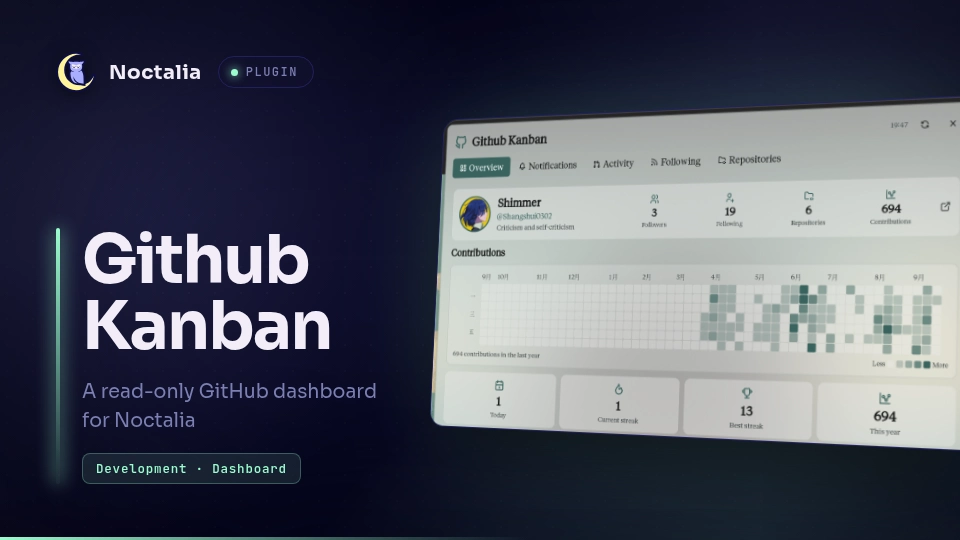
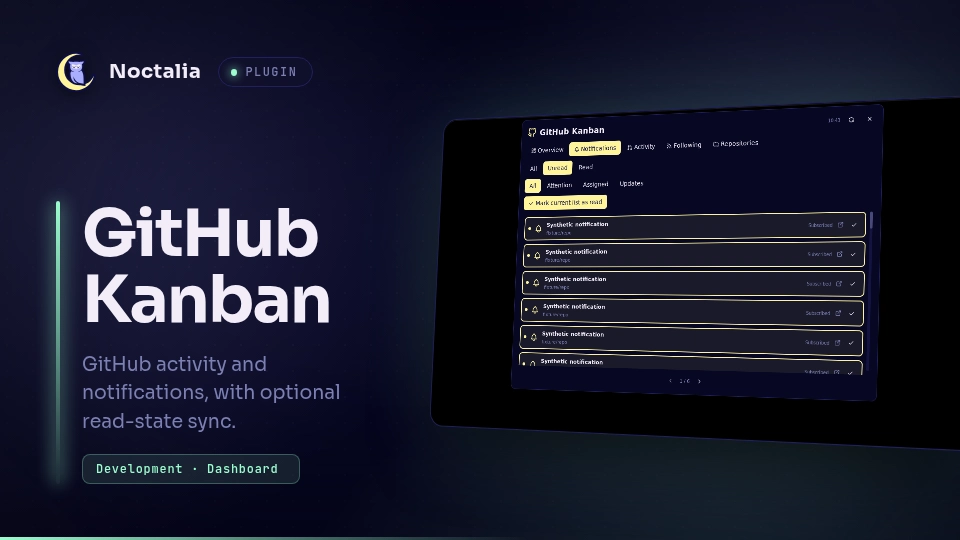
perf(github-kanban): accelerate refresh and paginate notification cards

diff --git a/github-kanban/README.md b/github-kanban/README.md
@@ -121,9 +121,10 @@ noctalia msg plugin shangshui0302/github-kanban:sync all refresh
 
 ## Notes
 
-- The `sync` service makes read-only GitHub API network requests through `gh api`, using the authentication already configured in `gh`. The notification service also uses `gh api`; in Synced mode only, explicit **Mark as read** / **Mark current list as read** actions, or opening a notification with **Mark read when opening a notification** enabled, send `PATCH /notifications/threads/{id}` to GitHub. The batch action only includes unread notifications in the current filtered list. The badge updates optimistically while a write is pending. Very large selections are queued in bounded batches instead of blocking the action callback. Failed writes restore unread state and can be retried; older in-flight responses cannot overwrite a local read action. An updated thread becomes unread again. Before writing, the service checks the current account and thread version. Pending actions are disabled. Legacy mode remains read-only and refreshes with the dashboard. The plugin does not read, store, or display an access token. Individual sources may fail independently; cached sections can remain visible while errors are reported.
-- Notification requests follow pagination to include the complete read history range (30 days by default) and all unread notifications. Unread items remain visible and counted even when older than the history range. Synced mode refreshes this data independently; opening the panel can also request a refresh. Conditional requests reuse unchanged pages, and refreshes respect GitHub's `X-Poll-Interval` and rate-limit headers. Repeated requests are coalesced. Notification responses are projected with `gh api --jq` and processed in small batches to stay within the runtime CPU budget. Snapshot validation and list projection also yield between batches; sorting uses native string keys, and notification IDs are indexed for bulk actions. When history and unread pages contain different versions of a thread, the newer version wins; list state and the badge use that same version. A refresh with no progress for two minutes retains the previous snapshot and retries after backoff; delayed replies from that refresh are ignored. Processing errors are logged and reported immediately, and invalid cached snapshots are discarded so they can be fetched again. A read-state action with no response for two minutes releases pending actions and cancels the remaining queue. Its outcome is reconciled through normal reads; an uncertain write is never replayed automatically. A fresh snapshot confirming a thread is read also clears that thread's write error. Late action replies cannot overwrite newer actions or change the current account.
+- The `sync` service makes read-only GitHub API network requests through `gh api`, using the authentication already configured in `gh`. The notification service also uses `gh api`; in Synced mode only, explicit **Mark as read** / **Mark current list as read** actions, or opening a notification with **Mark read when opening a notification** enabled, send `PATCH /notifications/threads/{id}` to GitHub. The batch action includes unread notifications across all pages of the current filtered list, excluding pending actions. Notification cards are shown in pages of 50 to keep every item reachable within the runtime UI limits; changing filters or reopening resets to the first page. The badge updates optimistically while a write is pending. Very large selections are queued in bounded batches instead of blocking the action callback. Failed writes restore unread state and can be retried; older in-flight responses cannot overwrite a local read action. An updated thread becomes unread again. Before writing, the service checks the current account and thread version. Pending actions are disabled. Legacy mode remains read-only and refreshes with the dashboard. The plugin does not read, store, or display an access token. Individual sources may fail independently; cached sections can remain visible while errors are reported.
+- Notification requests follow pagination to include the complete read history range (30 days by default) and all unread notifications. Unread items remain visible and counted even when older than the history range. Synced mode refreshes this data independently; opening the panel can also request a refresh. Conditional requests reuse unchanged pages, and refreshes respect GitHub's `X-Poll-Interval` and rate-limit headers. Repeated requests are coalesced. Notification responses are projected with `gh api --jq` and processed in small batches to stay within the runtime CPU budget. Read and cache checkpoints can advance within a short elapsed-time slice, with a fixed resume cap; expensive native decoding and serialization keep frame boundaries. This reduces waiting without changing GitHub polling limits. Snapshot validation and list projection also yield between batches; sorting uses native string keys, and notification IDs are indexed for bulk actions. When history and unread pages contain different versions of a thread, the newer version wins; list state and the badge use that same version. Large unread/pending snapshots are prepared in background ticks; local action deltas keep their counts current while writes continue. A refresh with no progress for two minutes retains the previous snapshot and retries after backoff; delayed replies from that refresh are ignored. Processing errors are logged and reported immediately, and invalid cached snapshots are discarded so they can be fetched again. A read-state action with no response for two minutes releases pending actions and cancels the remaining queue. Its outcome is reconciled through normal reads; an uncertain write is never replayed automatically. A fresh snapshot confirming a thread is read also clears that thread's write error. Late action replies cannot overwrite newer actions or change the current account.
 - `noctalia.download` downloads profile, followed-user, and repository-owner avatars from GitHub. The plugin caches `dashboard.json`, `notifications.json` (account-scoped notification snapshots and confirmed local read versions), and downloaded avatars in its Noctalia `pluginDataDir`. Notification cache schema 2 stores encoded groups of at most 50 records, omits the duplicate unread snapshot, and saves in background update ticks. Schema 1 caches remain readable; unsupported or damaged caches are refetched. Stale cache jobs cannot overwrite newer account or action state, and cache-save failures are logged without blocking notification reads.
 - Clicking a dashboard item starts `xdg-open` with its GitHub URL.
+- Panel configuration values are reused within one render. Event callbacks and later renders read fresh settings. Hidden panels keep incoming state without rebuilding their UI; reopening renders the latest state. Existing data-driven render throttling and appearance are preserved.
 - The panel uses the manifest's fixed 860 × 620 dimensions. The current plugin UI API does not expose runtime resizing or sticky section headers. Contribution cells are auto-fitted to the panel width, so large cell/gap combinations are scaled down to prevent overlap in attached and floating placements. The Overview contributions section stretches to fill remaining panel height, distributing air inside its heatmap card while keeping the Contributions label attached to it. Event and release text is truncated before display to keep refreshes within budget. List responses (following events, search, repositories, Actions runs) are projected to displayed fields with `gh api --jq` so decoding stays within budget. The heatmap footer is inset to the calendar width so its items align with the grid edges.
 - GitHub does not provide the web dashboard's personalized feed through an API, so the Following view combines public events from followed users with latest-release data from recently starred repositories. Repository scanning is bounded by the configured limit to keep refresh work and API use modest.
